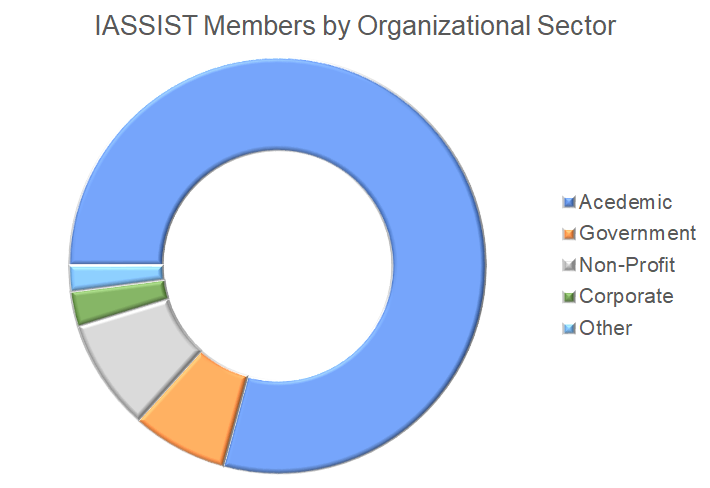
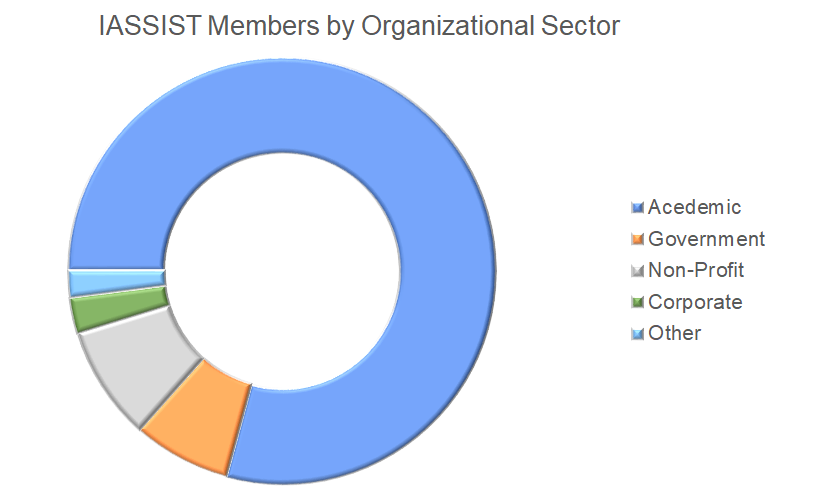
Updated membership doughnut charts.

diff --git a/content/about/about-iassist.md b/content/about/about-iassist.md
@@ -15,15 +15,18 @@ Our members work in information technology, libraries, data services, research &
 
 ### 350+ Members from a variety of settings
 
-Our members represent a variety of organizational sectors but a vast majority are within acedemia, working in data services, libraries, archives or research positions.
+Our members represent a variety of organizational sectors across the globe, but a vast majority are within acedemia, working in data services, libraries, archives or research positions.
 
-{{< figure src="/img/about/by-organisational-sector.png" alt="Pie chart of IASSIST members across the globe. Moren than 70% are in the US, 15% in Europe and 15% in Canada." title="" width="400" >}}
+{{< figure src="/img/about/by-region.png" alt="Pie chart of IASSIST members across the globe. Moren than 70% are in the US, 15% in Europe and 15% in Canada." title="" width="450" >}}
+<br />
+{{< figure src="/img/about/by-organisational-sector.png" alt="Pie chart of IASSIST members across the globe. Moren than 70% are in the US, 15% in Europe and 15% in Canada." title="" width="450" >}}
 
 *Numbers represent averages in early 2019.* 
 
 ### Expertise and Colleagues
 
 {{< figure src="/img/about/by-organisational-type.png" alt="Pie chart of IASSIST members across the globe. Moren than 70% are in the US, 15% in Europe and 15% in Canada." title="" width="450" >}}
+<br />
 
 Many members identify themselves as 
 
@@ -59,30 +62,12 @@ Alternative image markdown
 {{< figure src="/img/about/vendiagram_final.png" title="Our core communities" >}}
 -->
 
--   Social science researchers and scientists who are producers and
-    users of micro and macro-level social data;
--   Information specialists, who preserve social data, manage facilities
-    and provide services that promote the secondary use of social data;
--   Methodologists and computing specialists who advance technical
-    methods to manipulate and analyze social data.
+-   Social science researchers and scientists who are producers and users of micro and macro-level social data;
+-   Information/data specialists, who curate and preserve social data, manage facilities and provide services that promote the secondary use of social data;
+-   Methodologists, computing specialists and data scientists who advance technical methods to manipulate and analyze social data.
 
 ## Strategic Directions
 
 -   IASSIST members are working together to advocate for responsible data management and use, to build a broader community surrounding research data, and encourage the development of data professionals.
 -   Read our most recent strategic plan: **[Democratizing Data - The IASSIST Strategic Plan 2010-2014](https://iassistdata.org/about/strategic-plan)**.
 
-## Media
-
--   **[IASSIST Factsheet](/file/about/iassist_factsheet_2016.pdf)** (PDF)
-
-[![Thumbnail of the IASSIST Factsheet](/img/about/factsheet2016.jpg "IASSIST Factsheet")](/file/about/iassist_factsheet_2016.pdf)
-
-- **IASSIST tri-fold brochure** (PDF)
-
-[![Thumbnail of the IASSIST Factsheet](/img/about/brochurethumb_2.jpg "IASSIST tri-fold brochure")](/file/about/printiassistbrochure_2013.pdf)
-
--   [English](/file/about/printiassistbrochure_2013.pdf)
--   [French](/file/about/printiassistbrochurefrench_2012.pdf)
--   [German](/file/about/printiassistbrochuregerman_2013.pdf)
--   [Portuguese](/file/about/printiassistbrochureport_2012.pdf)
--   [Spanish](/file/about/printiassistbrochurespanish_2012.pdf)
